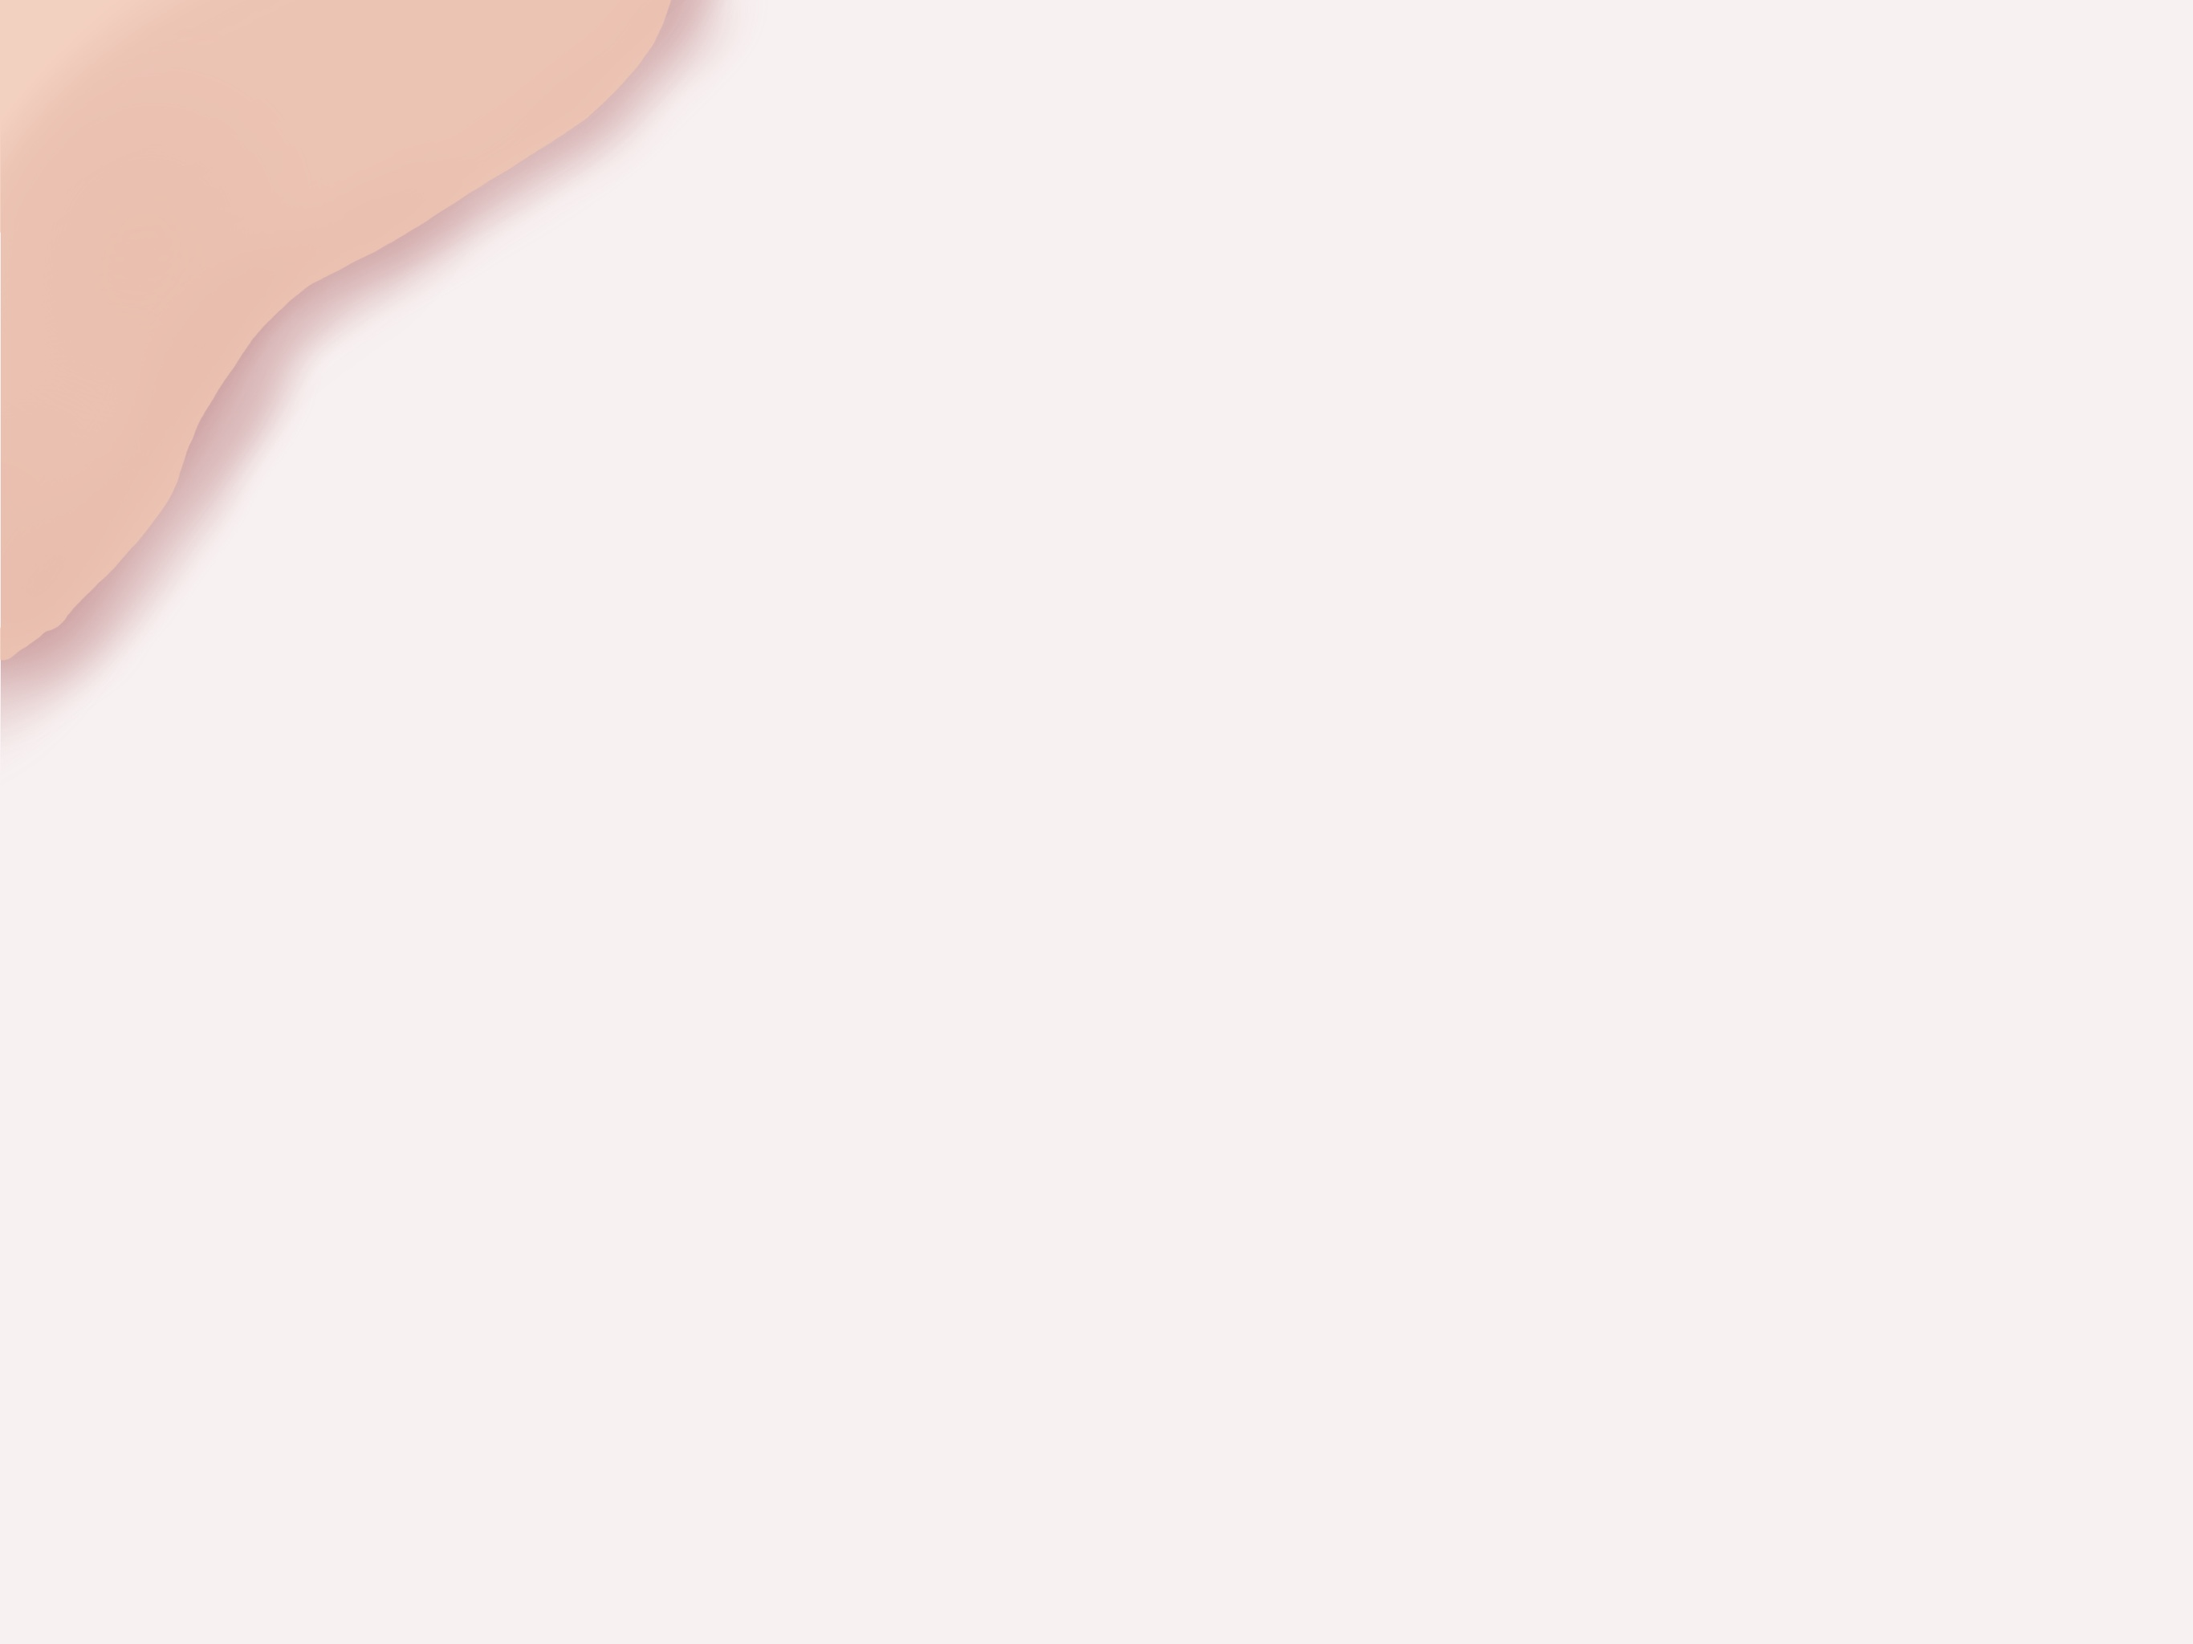
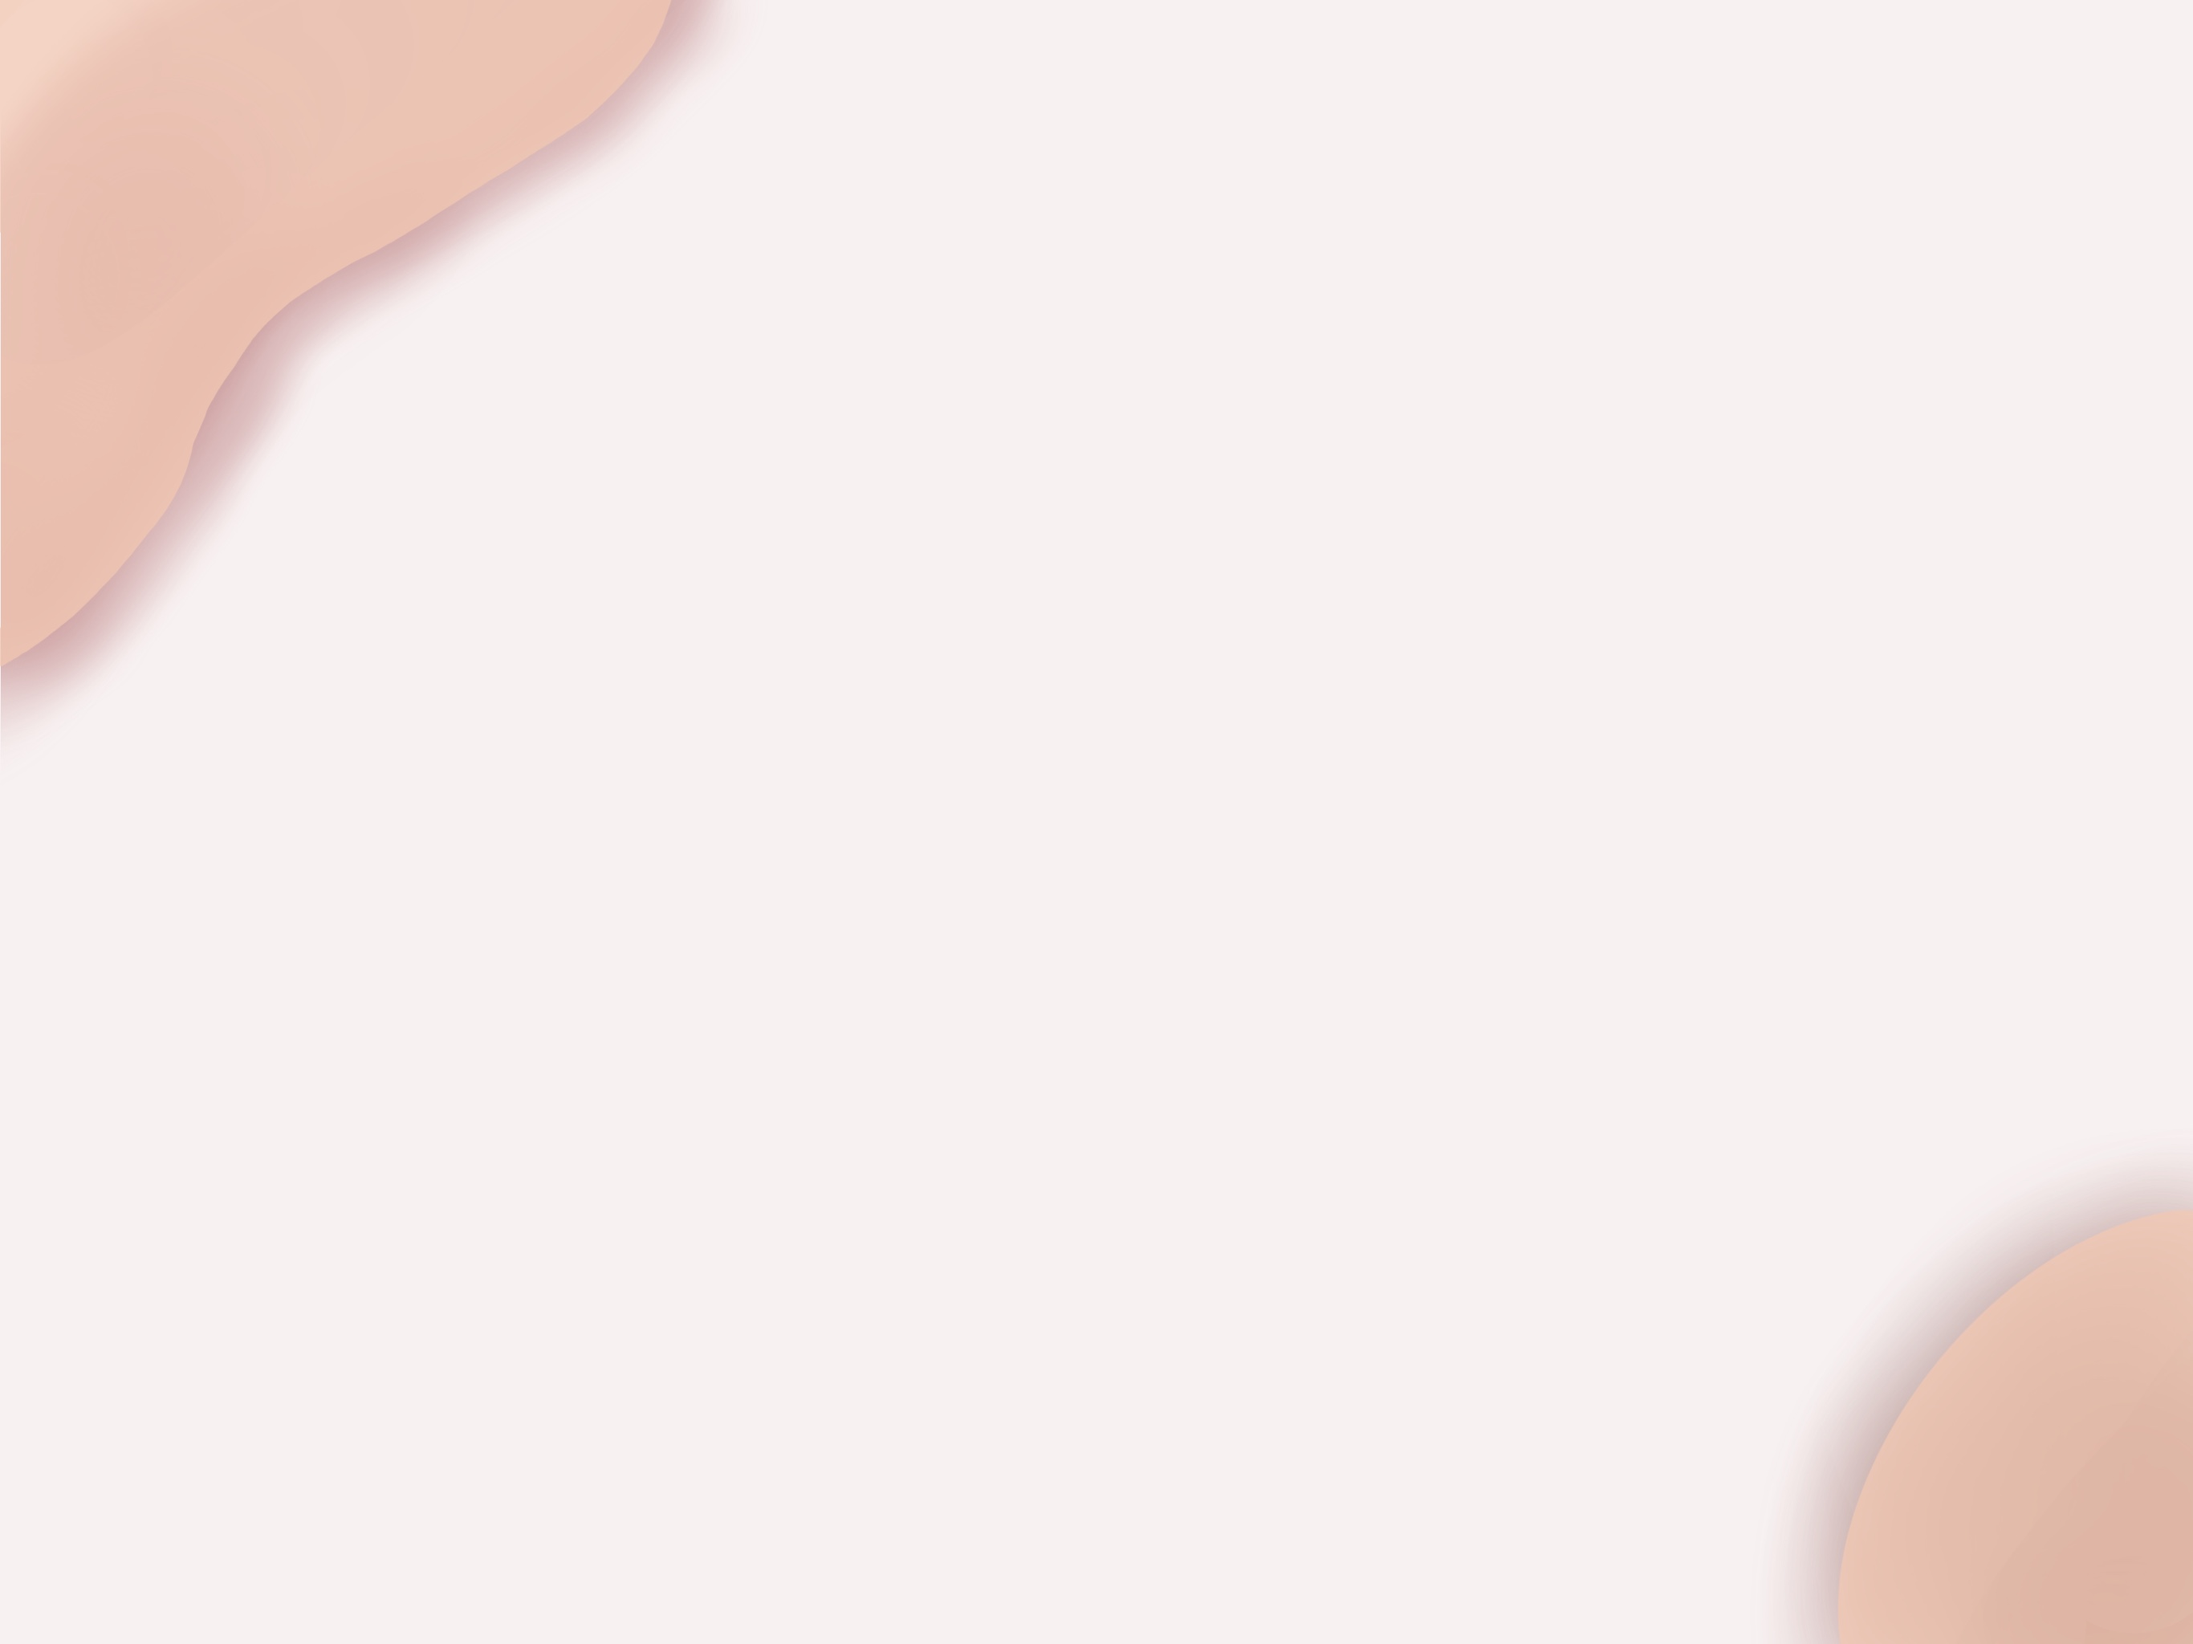
Edited CSS

Changed region(s): [[0.8089, 0.7188, 1.0, 1.0]]

diff --git a/quterus-frontend/src/pages/AiQuiz.css b/quterus-frontend/src/pages/AiQuiz.css
@@ -18,7 +18,7 @@ h2 {
     flex-direction: column;
     margin: 0;
     background-image: url("../assets/background-image.jpg");
-    background-size:cover;
+    background-size: 100% 100%; 
     align-content: space-between;
     padding: 10px;
 }
@@ -38,7 +38,7 @@ h2 {
     /* default setting; can be omitted */
     margin: 20px;
     gap: 50px;
-    padding: 50px 0px 50px 200px;
+    padding: 50px 0px 50px 50px;
 }
 
 .random {

diff --git a/quterus-frontend/src/pages/Home.css b/quterus-frontend/src/pages/Home.css
@@ -19,7 +19,7 @@ h2 {
     flex-direction: column;
     margin: 0;
     background-image: url("../assets/background-image.jpg");
-    background-size:cover;
+    background-size: 100% 100%; 
     align-content: space-between;
     padding: 10px;
     gap: 20px;

diff --git a/quterus-frontend/src/pages/Quiz.css b/quterus-frontend/src/pages/Quiz.css
@@ -18,7 +18,7 @@ h2 {
     flex-direction: column;
     margin: 0;
     background-image: url("../assets/background-image.jpg");
-    background-size:cover;
+    background-size: 100% 100%; 
     align-content: space-between;
     padding: 10px;
 }
